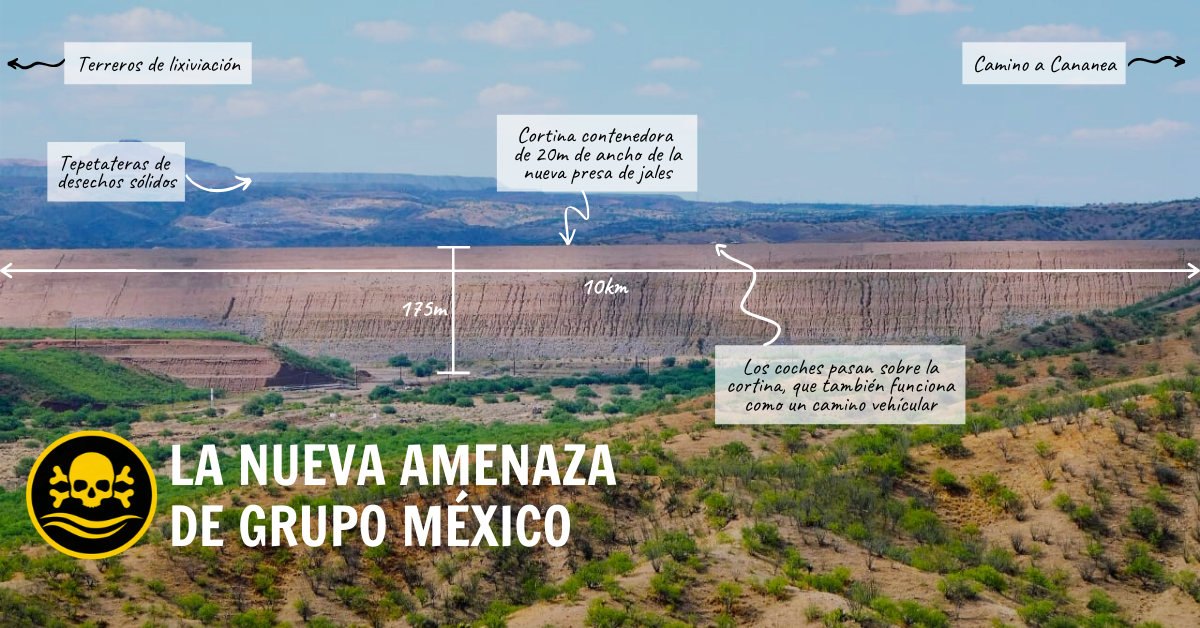
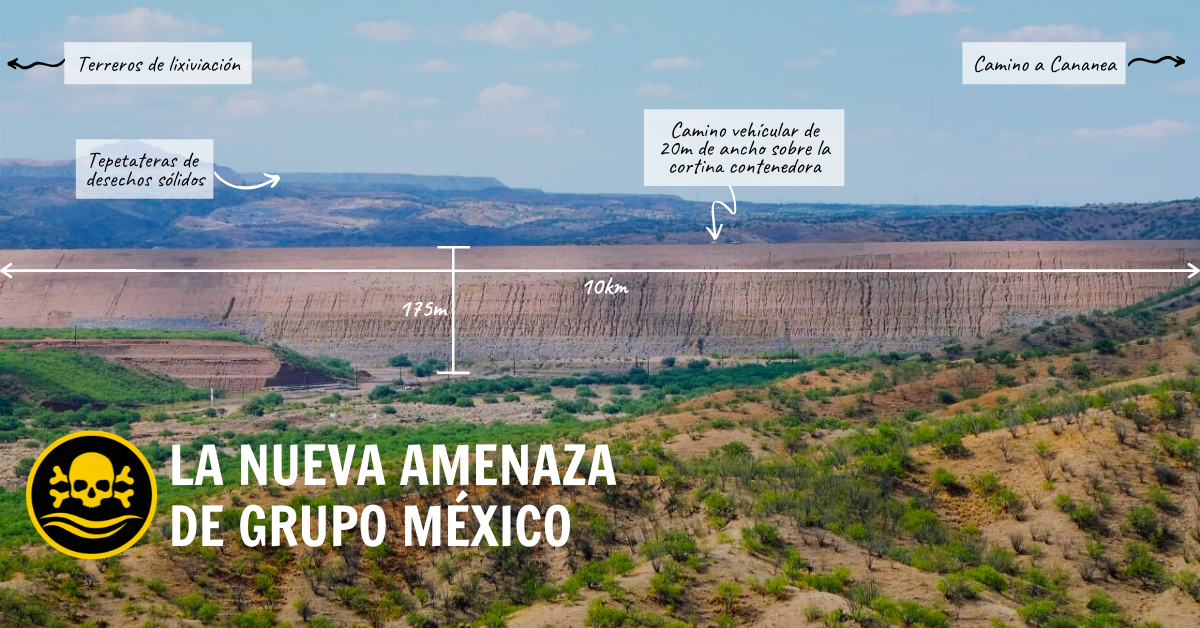
Fix cards

diff --git a/_includes/header.html b/_includes/header.html
@@ -5,7 +5,7 @@
     {%- assign default_paths = site.pages | map: "path" -%}
     {%- assign page_paths = site.header_pages | default: default_paths -%}
     {%- assign titles_size = site.pages | map: 'title' | size -%}
-    <a class="navbar-brand" rel="author" href="{{ '/'' | relative_url }}"><img src="{{ site.baseurl }}/assets/img/{{ site.image }}" class="img-fluid"></a>
+    <a class="navbar-brand" rel="author" href="{{ '/'' | relative_url }}"><img src="{{ site.baseurl }}/assets/img/{{ site.logo }}" class="img-fluid"></a>
     <!-- <a class="site-title" rel="author" href="{{ "/" | relative_url }}"><img src="/assets/img/{{ site.image | prepend: site.baseurl }}"></a> -->
 
     <button class="navbar-toggler" type="button" data-toggle="collapse" data-target="#navbarSupportedContent"
@@ -36,7 +36,7 @@
     {%- assign default_paths = site.pages | map: "path" -%}
     {%- assign page_paths = site.header_pages | default: default_paths -%}
     {%- assign titles_size = site.pages | map: 'title' | size -%}
-    <a class="navbar-brand" rel="author" href="{{ '/'' | relative_url }}"><img src="{{ site.baseurl }}/assets/img/{{ site.image }}" class="img-fluid"></a>
+    <a class="navbar-brand" rel="author" href="{{ '/'' | relative_url }}"><img src="{{ site.baseurl }}/assets/img/{{ site.logo }}" class="img-fluid"></a>
     <button class="navbar-toggler" type="button" data-toggle="collapse" data-target="#navbarNavDropdown" aria-controls="navbarNavDropdown" aria-expanded="false" aria-label="Toggle navigation">
         <span class="navbar-toggler-icon"></span>
     </button>

diff --git a/_includes/head.html b/_includes/head.html
@@ -8,11 +8,11 @@
   <link rel="stylesheet" href="{{ "/assets/javascript/fullpage.js/dist/jquery.fullpage.min.css" | relative_url }}">
   <link href="https://fonts.googleapis.com/css?family=Francois+One|Open+Sans:400,400i,700,700i|Proza+Libre:400,400i,500,500i,600,600i,700,700i&display=swap" rel="stylesheet"> 
   {%- feed_meta -%}
-  <meta property="og:title" content="La nueva amenaza de Grupo México" />
+  <!-- <meta property="og:title" content="La nueva amenaza de Grupo México" />
   <meta property="og:type" content="website" />
   <meta property="og:description" content="La megapresa de jales de Buenavista del Cobre, de Germán Larrea, se levanta como una nueva amenaza hacia la población de los 7 municipios de Sonora." />
   <meta property="og:url" content="" />
-  <meta property="og:image" content="{{ site.baseurl }}/assets/img/facebookcard-sonora.png" />
+  <meta property="og:image" content="{{ site.baseurl }}/assets/img/facebookcard-sonora.png" /> -->
   <script src="{{ "/assets/javascript/bootstrap/jquery.min.js" | relative_url }}"></script>
   <script src="{{ "/assets/javascript/bootstrap/bootstrap.bundle.min.js" | relative_url }}"></script>
   <script src="{{ "/assets/javascript/fullpage.js/dist/jquery.fullpage.js" | relative_url }}"></script>

diff --git a/_layouts/home.html b/_layouts/home.html
@@ -3,7 +3,7 @@ layout: default
 ---
 
 <section class="home-content text-center">
-  <img class="legend-home legend-home1" src="{{ site.baseurl }}/assets/img/leyenda.png" alt="Cortina contenedora de la nueva presa de jales">
+  <img class="legend-home legend-home1" src="{{ site.baseurl }}/assets/img/leyenda1.png" alt="Cortina contenedora de la nueva presa de jales">
   <img class="legend-home legend-home2" src="{{ site.baseurl }}/assets/img/leyenda-2.png" alt="Tepetateras de desechos sólidos">
   <img class="legend-home legend-home3" src="{{ site.baseurl }}/assets/img/leyenda-3.png" alt="Terreros de lixiviación">
   <img class="legend-home legend-home4" src="{{ site.baseurl }}/assets/img/leyenda-4.png" alt="Camino a Cananea">
